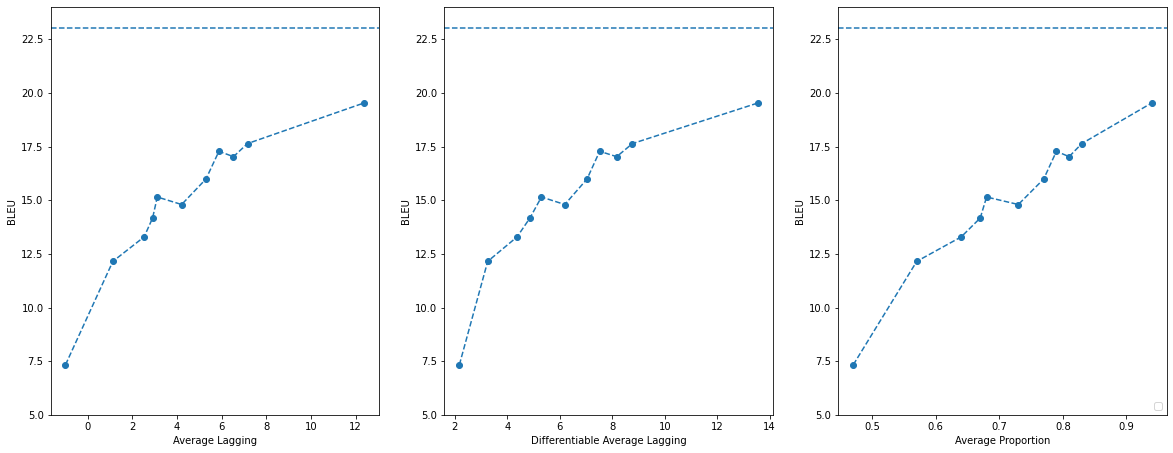
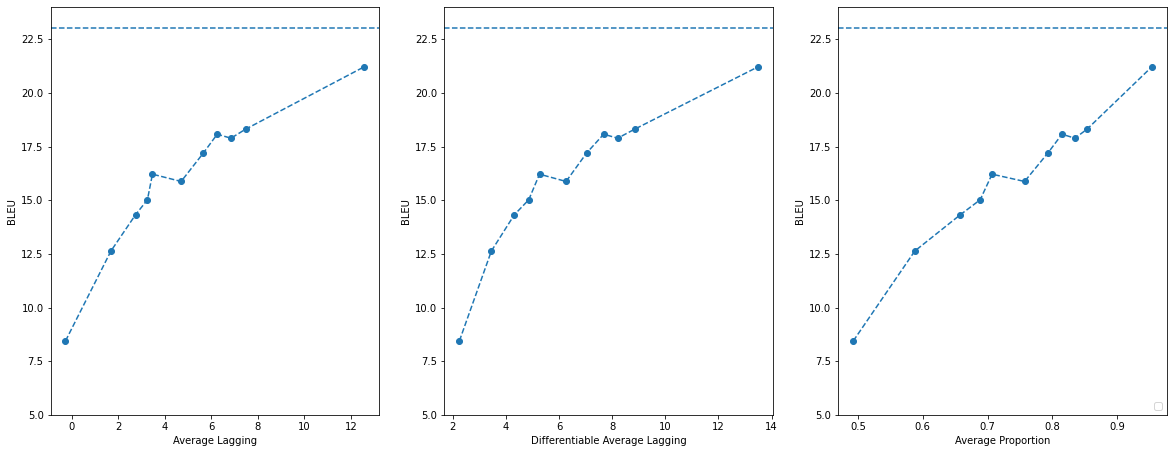
update text model test curve

diff --git a/examples/simultaneous_translation/docs/baseline.md b/examples/simultaneous_translation/docs/baseline.md
@@ -190,7 +190,7 @@ You can use the client scripts with pre-trained models:
 #### [Text model](https://dl.fbaipublicfiles.com/simultaneous_translation/checkpoint_text_waitk3.pt). 
 You should obtain the following score on test set: 
 
-```Scores: {"BLEU": 13.291, "TER": 0.957, "METEOR": 0.31, "DAL": 4.372044027815046, "AL": 2.5295724889866804, "AP": 0.6400225334686246}```
+```Scores: {"BLEU": 14.324, "TER": 0.927, "METEOR": 0.326, "DAL": 4.322654158339632, "AL": 2.7348828697228345, "AP": 0.6579466996497951}```
 
 This corresponds to `k = 3` in the wait-k model. You can see in the figure below the quality and latency metrics for various values of k. The detailed numbers can be found [here](text_curve.csv). The corresponding checkpoints to download can be found at https://dl.fbaipublicfiles.com/simultaneous_translation/checkpoint_text_waitk$k.pt (replace `$k` with the corresponding value).
 
@@ -200,7 +200,7 @@ This corresponds to `k = 3` in the wait-k model. You can see in the figure below
 
 You should obtain the following scores on test set: 
 
-```{"BLEU": 10.785, "TER": 0.913, "METEOR": 0.247, "DAL": 2817.45349595572, "AL": 2331.9959397710254, "AP": 0.8462297623865175}``` 
+```Scores: {"BLEU": 9.397, "TER": 1.044, "METEOR": 0.224, "DAL": 2080.781110446501, "AL": 1517.827194666691, "AP": 0.7875444648568037}``` 
 
 This is the model of wait-k where `k = 3` and with a stride of 400ms (read or write every 400ms). We also provide the full curve for the speech translation model, shown as follow. The detailed numbers can be found [here](speech_curve.csv).
 ![Quality-Latency Curve for the speech-to-text baseline](speech_curve.png)
